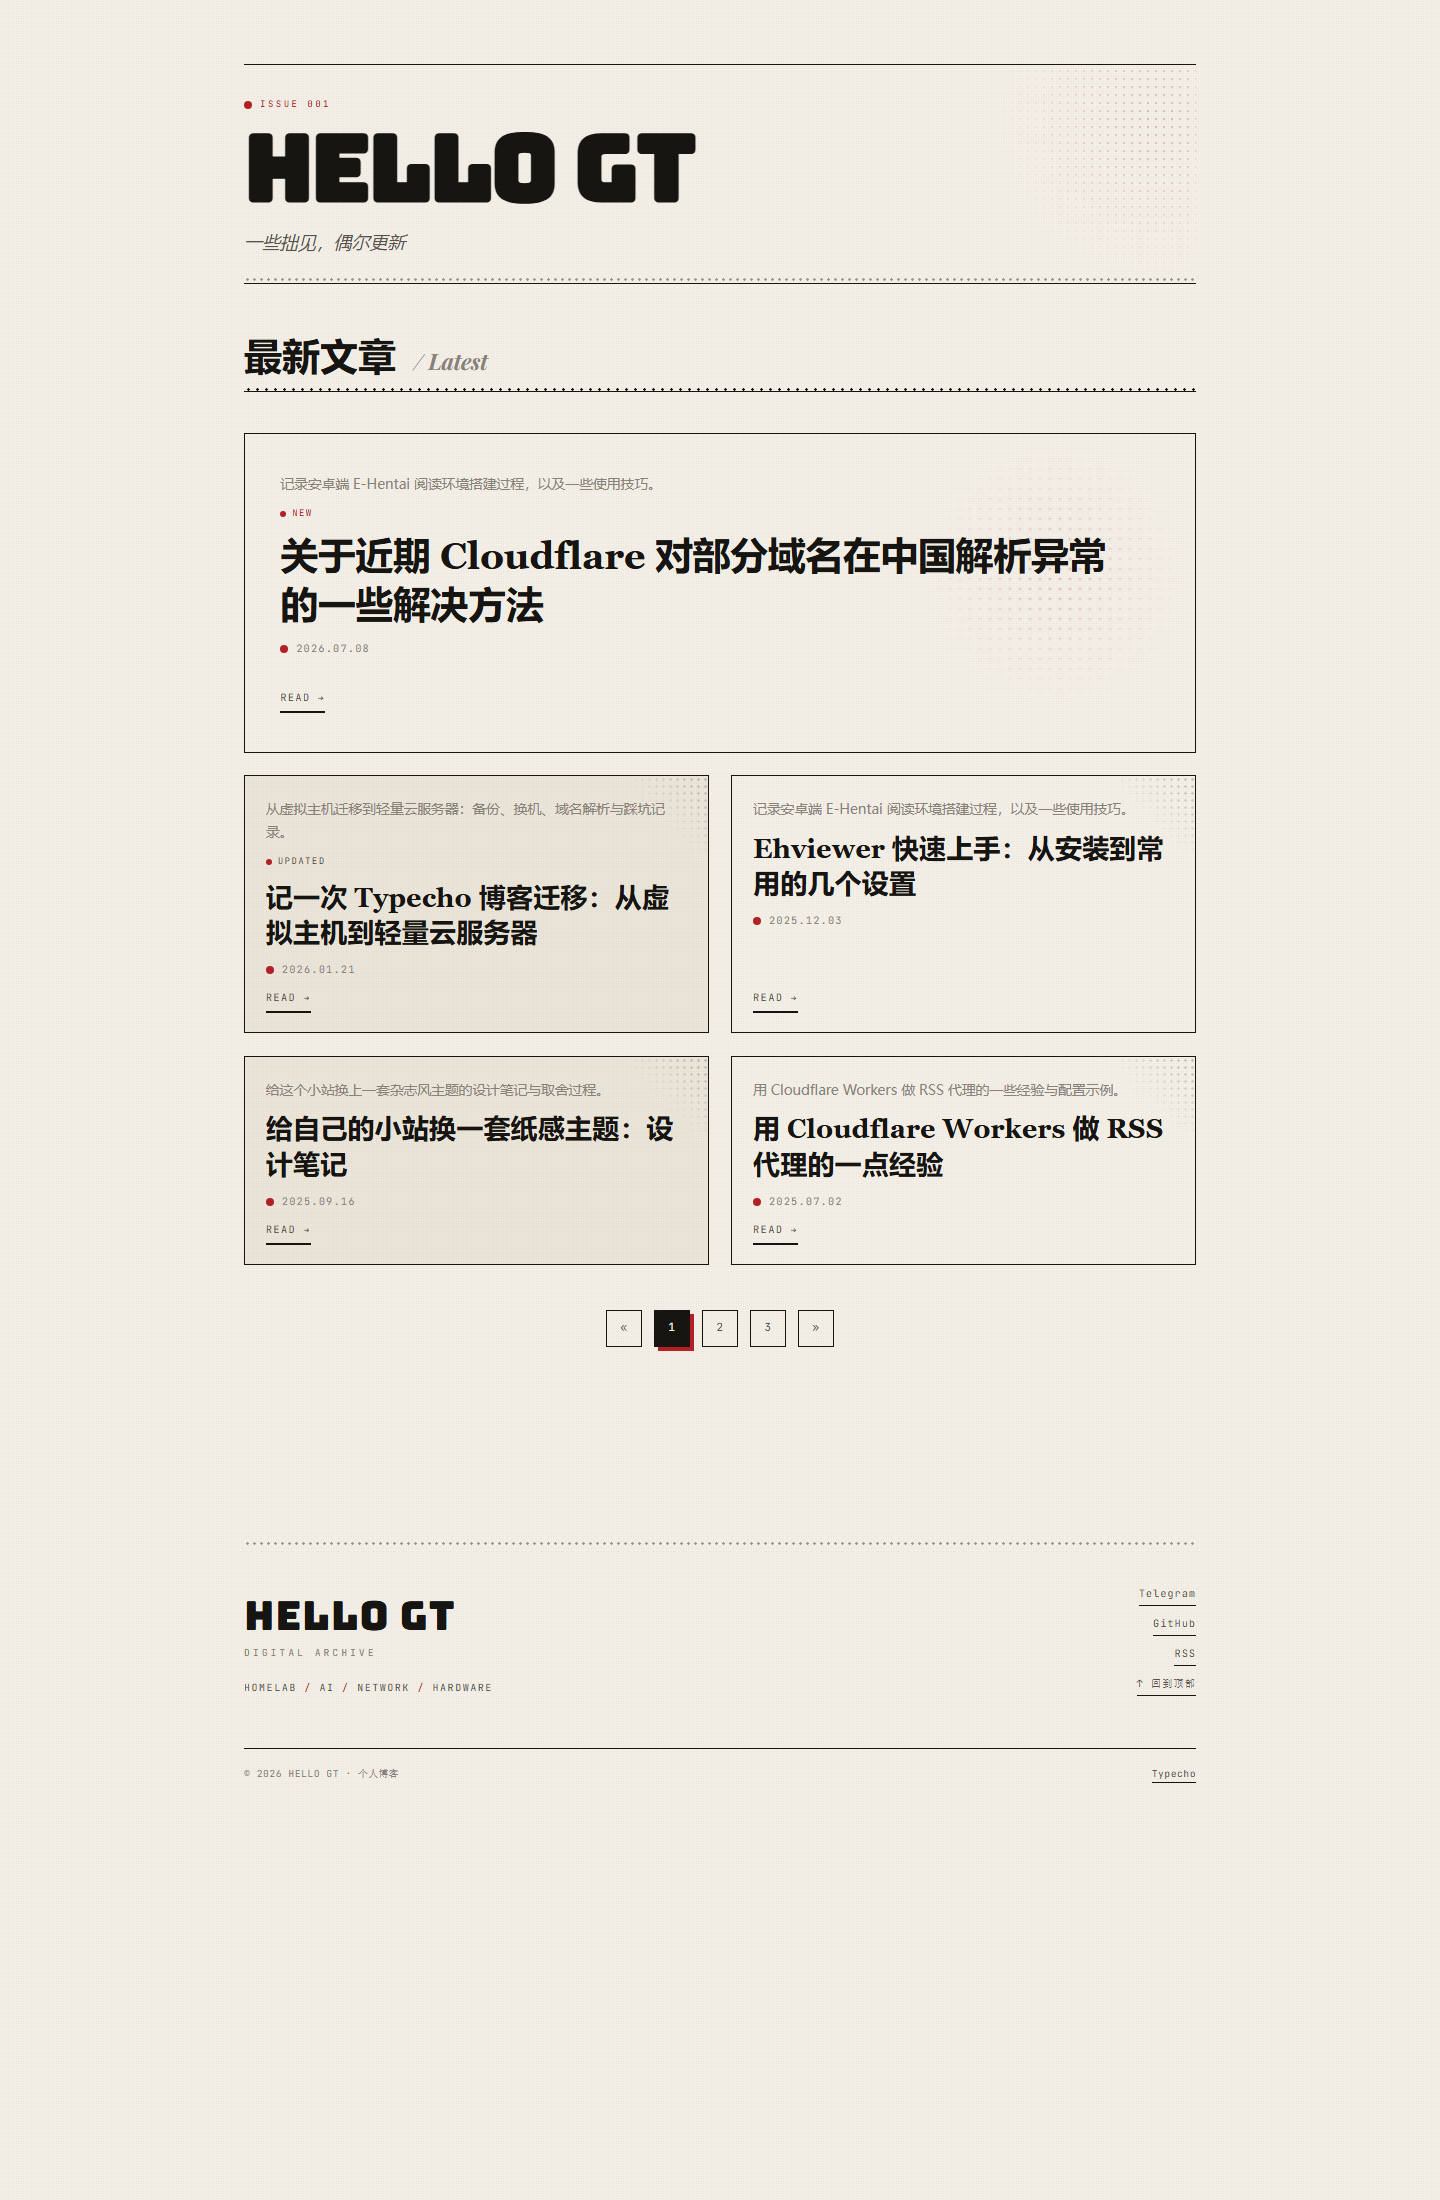
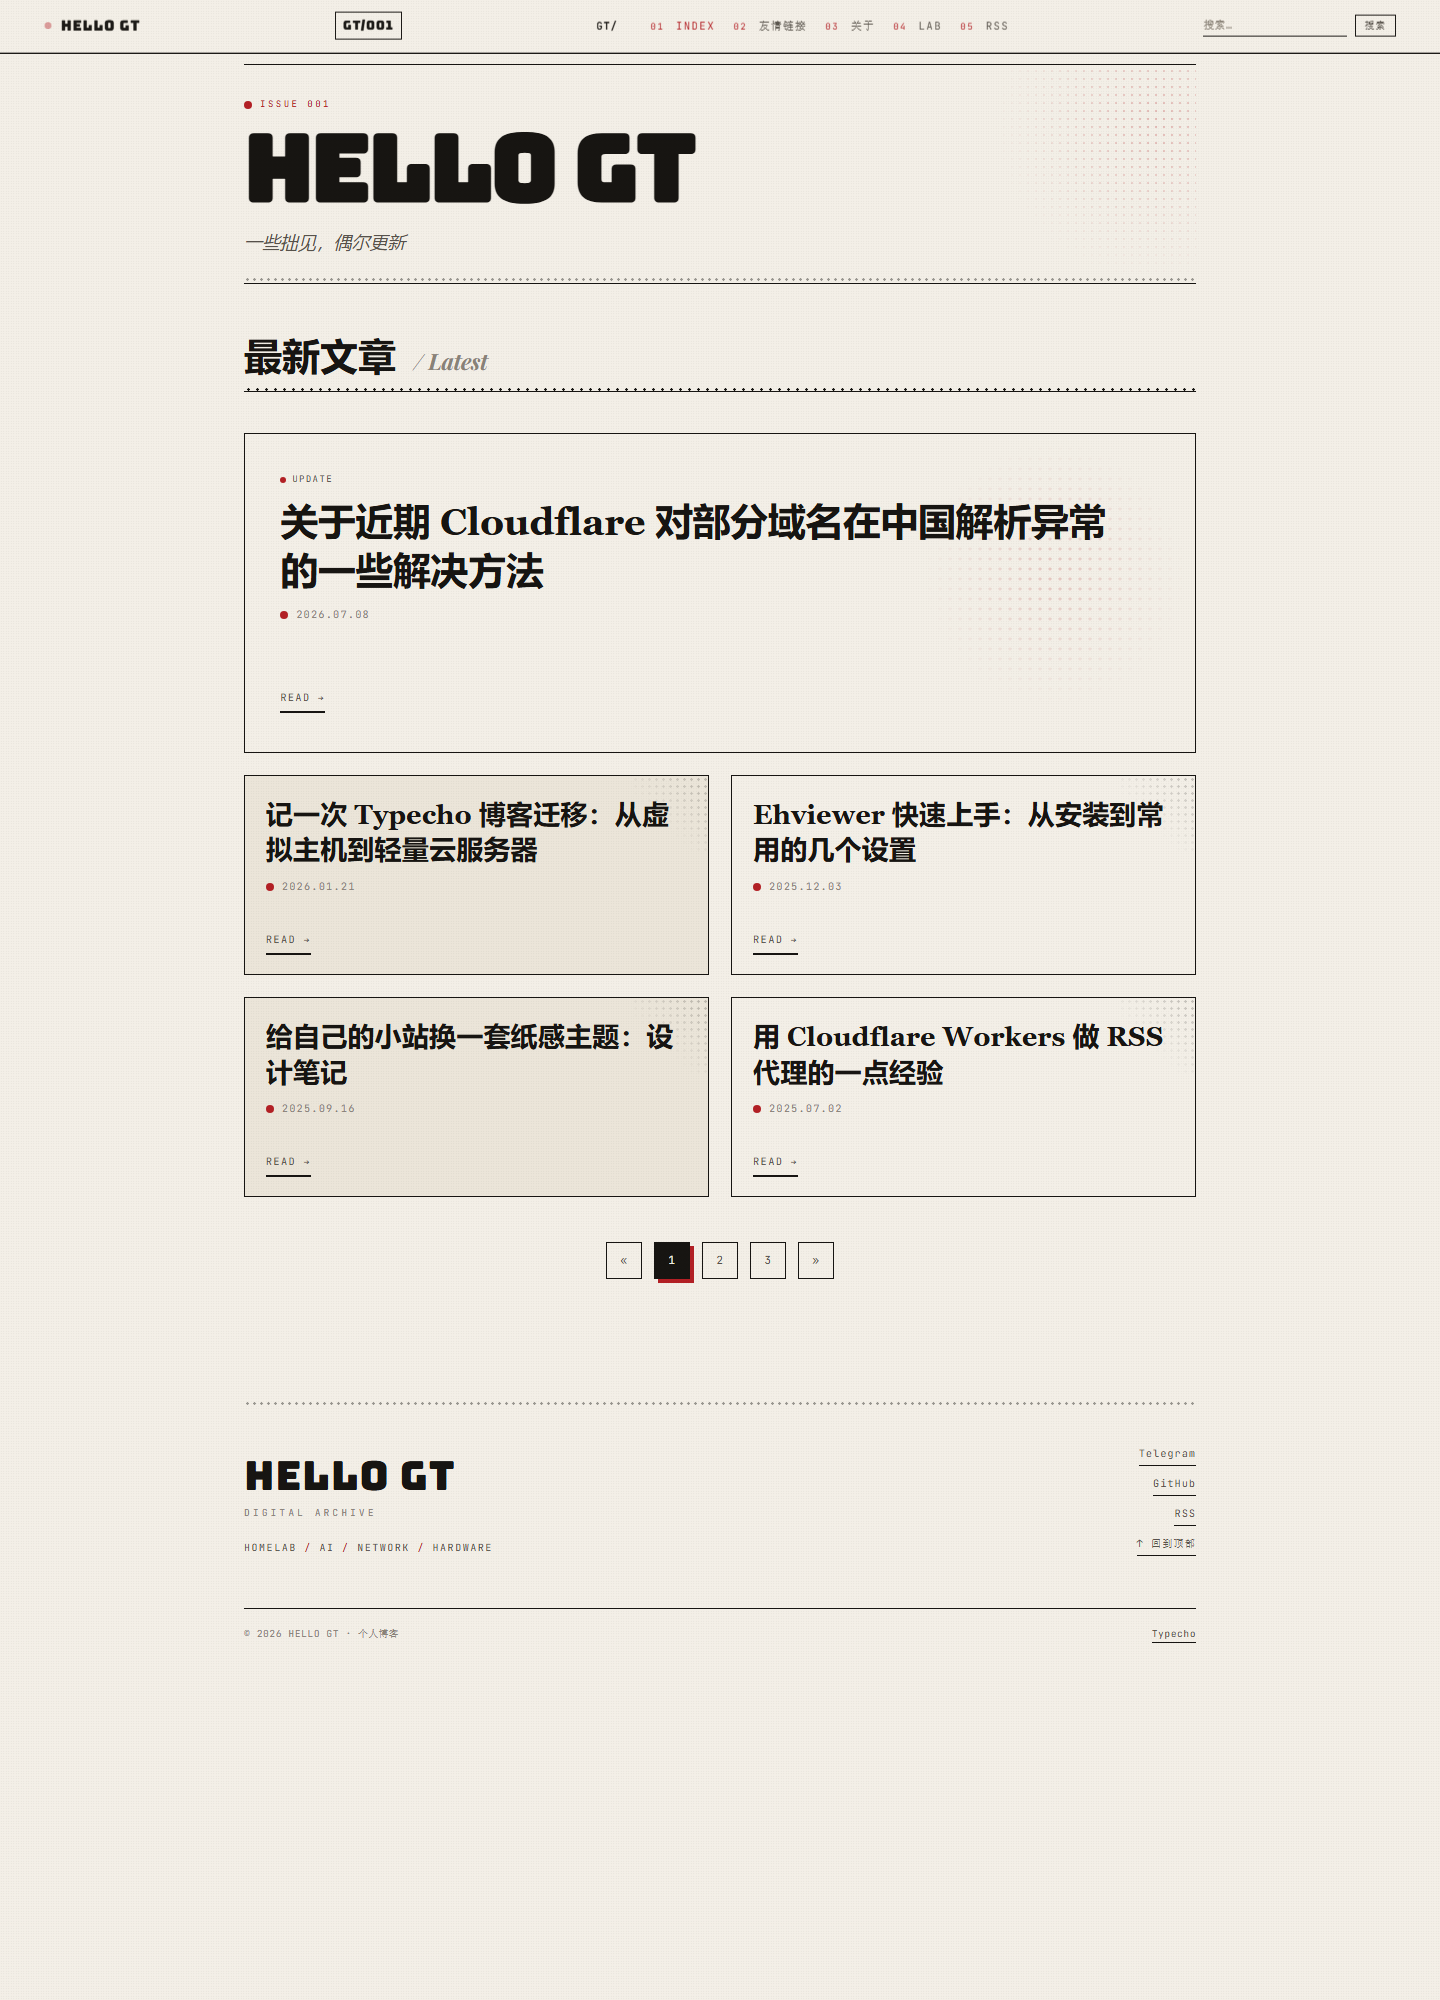
feat: backfill empty settings with effective values on admin; cards drop excerpts; UPDATE badge only on latest card

diff --git a/functions.php b/functions.php
@@ -18,7 +18,7 @@ if (!defined('__TYPECHO_ROOT_DIR__')) exit;
  *   homePageSize 首页文章数量                 默认: 6
  *   featuredCount 特色文章数量（头条大卡）1/0  默认: 1
  *   gridColumns  卡片列数 2/1                默认: 2
- *   showExcerpt  显示摘要 1/0                默认: 1（头条卡始终显示摘要）
+ *   （首页卡片不显示正文摘要；状态标签仅最新一篇显示 UPDATE）
  *
  * 03 STYLE（视觉）
  *   accentColor  强调色 hex                  默认: #b32025
@@ -54,6 +54,8 @@ if (!defined('__TYPECHO_ROOT_DIR__')) exit;
  */
 function themeConfig($form)
 {
+    gt_backfill();
+
     /* ---------- 01 BRAND · 品牌 ---------- */
     $brandCode = new \Typecho\Widget\Helper\Form\Element\Text(
         'brandCode', null, 'GT/001',
@@ -119,13 +121,6 @@ function themeConfig($form)
         _t('首页文章卡片的列数（头条大卡始终通栏）。')
     );
     $form->addInput($gridColumns);
-
-    $showExcerpt = new \Typecho\Widget\Helper\Form\Element\Select(
-        'showExcerpt', array('1' => _t('显示'), '0' => _t('隐藏')), '1',
-        _t('HOMEPAGE — 显示摘要'),
-        _t('卡片里是否显示正文摘要（头条大卡始终显示）。')
-    );
-    $form->addInput($showExcerpt);
 
     /* ---------- 03 STYLE · 视觉 ---------- */
     $accentColor = new \Typecho\Widget\Helper\Form\Element\Text(
@@ -224,6 +219,56 @@ function themeConfig($form)
         _t('404 页面显示的提示文字。')
     );
     $form->addInput($errText);
+}
+
+/**
+ * 后台回填：把留空的设置项用“当前生效值”填充，方便直接看到/修改
+ * （只在后台设置页执行，空值写一次；不依赖 themeInit，避免 options 未初始化）
+ */
+function gt_backfill()
+{
+    static $done = false;
+    if ($done) {
+        return;
+    }
+    $done = true;
+    try {
+        $gtO = gt_options();
+        $gtDefaults = array(
+            'brandCode'       => 'GT/001',
+            'heroTitle'       => (string) $gtO->title,
+            'heroDesc'        => (string) $gtO->description,
+            'heroLabel'       => 'ISSUE 001',
+            'heroShow'        => '1',
+            'brandSub'        => 'Digital Archive',
+            'homePageSize'    => '6',
+            'featuredCount'   => '1',
+            'gridColumns'     => '2',
+            'accentColor'     => '#b32025',
+            'paperColor'      => '#f3efe7',
+            'darkMode'        => '0',
+            'footerTags'      => 'HOMELAB / AI / NETWORK / HARDWARE',
+            'enableHighlight' => '1',
+            'errText'         => '这个页面不存在，可能已被移动或删除。'
+        );
+        $gtDb = \Typecho\Db::get();
+        foreach ($gtDefaults as $gtName => $gtValue) {
+            $gtStored = $gtO->{$gtName};
+            if (null === $gtStored || '' === $gtStored) {
+                $gtDb->query($gtDb->update('table.options')
+                    ->rows(array('value' => $gtValue))
+                    ->where('name = ?', $gtName));
+            }
+        }
+        $gtLab = $gtO->labItems;
+        if (null === $gtLab || '' === $gtLab) {
+            $gtDb->query($gtDb->update('table.options')
+                ->rows(array('value' => "HOMELAB|家庭实验室：服务器、存储、功耗与折腾记录。\nAI|人工智能：模型、工具链与日常实践。\nNETWORK|网络：DNS、代理、Cloudflare 与自建服务。\nHARDWARE|硬件：装机、外设与电子小项目。"))
+                ->where('name = ?', 'labItems'));
+        }
+    } catch (\Exception $e) {
+        // 回填失败不影响前台
+    }
 }
 
 /**

diff --git a/index.php b/index.php
@@ -10,7 +10,7 @@ if ($gtHeroDesc === '') {
     $gtHeroDesc = trim((string) $this->options->description);
 }
 $gtFeatured = ('1' === gt_option('featuredCount', '1'));
-$gtShowExcerpt = ('1' === gt_option('showExcerpt', '0'));
+$gtIsFirst = true;
 ?>
 <main class="main" id="main">
     <?php if ('1' === gt_option('heroShow', '1')): ?>
@@ -32,17 +32,13 @@ $gtShowExcerpt = ('1' === gt_option('showExcerpt', '0'));
             <?php while ($this->next()): ?>
                 <a class="issue-card<?php if ($gtFeatured): ?> featured<?php endif; ?>" href="<?php $this->permalink(); ?>">
                     <span class="issue-card-title"><?php $this->title(); ?></span>
-                    <?php if ($gtShowExcerpt || $gtFeatured): ?>
-                        <span class="issue-excerpt"><?php $this->excerpt(110); ?></span>
-                    <?php endif; ?>
-                    <?php $gtStatus = gt_post_status($this); ?>
-                    <?php if ($gtStatus !== ''): ?>
-                        <span class="issue-status<?php echo $gtStatus === 'NEW' ? ' is-new' : ' is-updated'; ?>"><span class="dot"></span><?php echo $gtStatus; ?></span>
+                    <?php if ($gtIsFirst): ?>
+                        <span class="issue-status is-updated"><span class="dot"></span><?php _e('UPDATE'); ?></span>
                     <?php endif; ?>
                     <span class="issue-date"><span class="dot"></span><?php $this->date('Y.m.d'); ?></span>
                     <span class="issue-more"><?php _e('READ →'); ?></span>
                 </a>
-                <?php $gtFeatured = false; ?>
+                <?php $gtFeatured = false; $gtIsFirst = false; ?>
             <?php endwhile; ?>
         </div>
         <?php $this->pageNav(_t('«'), _t('»'), 3, '…', array('wrapTag' => 'div', 'wrapClass' => 'page-nav', 'currentClass' => 'current')); ?>
